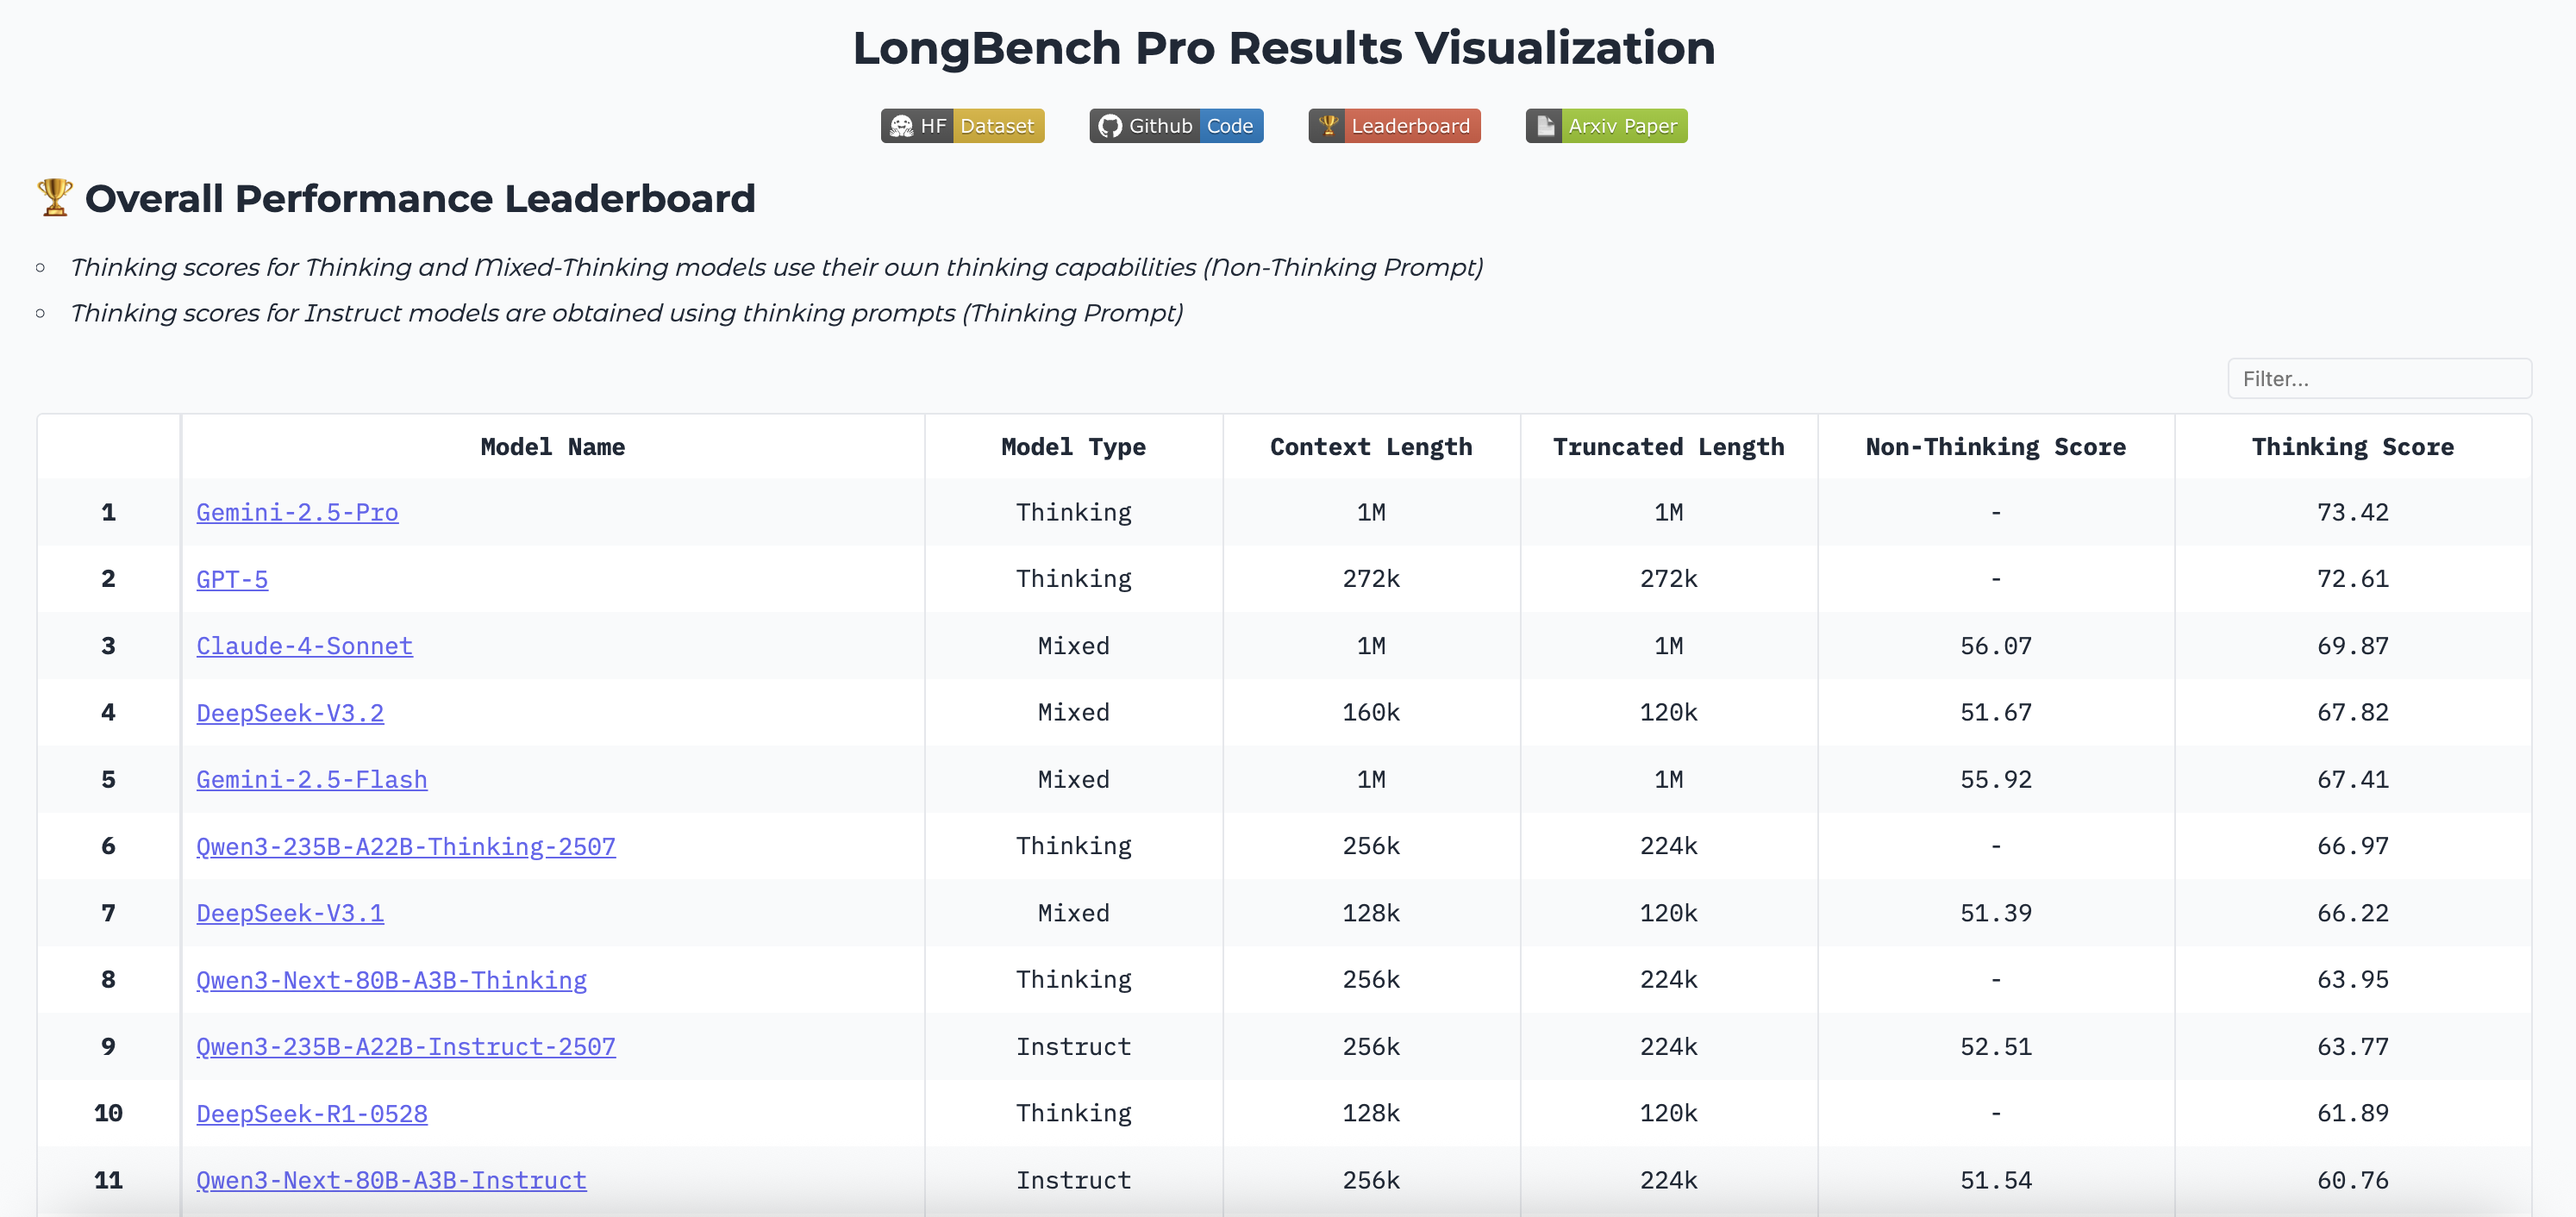
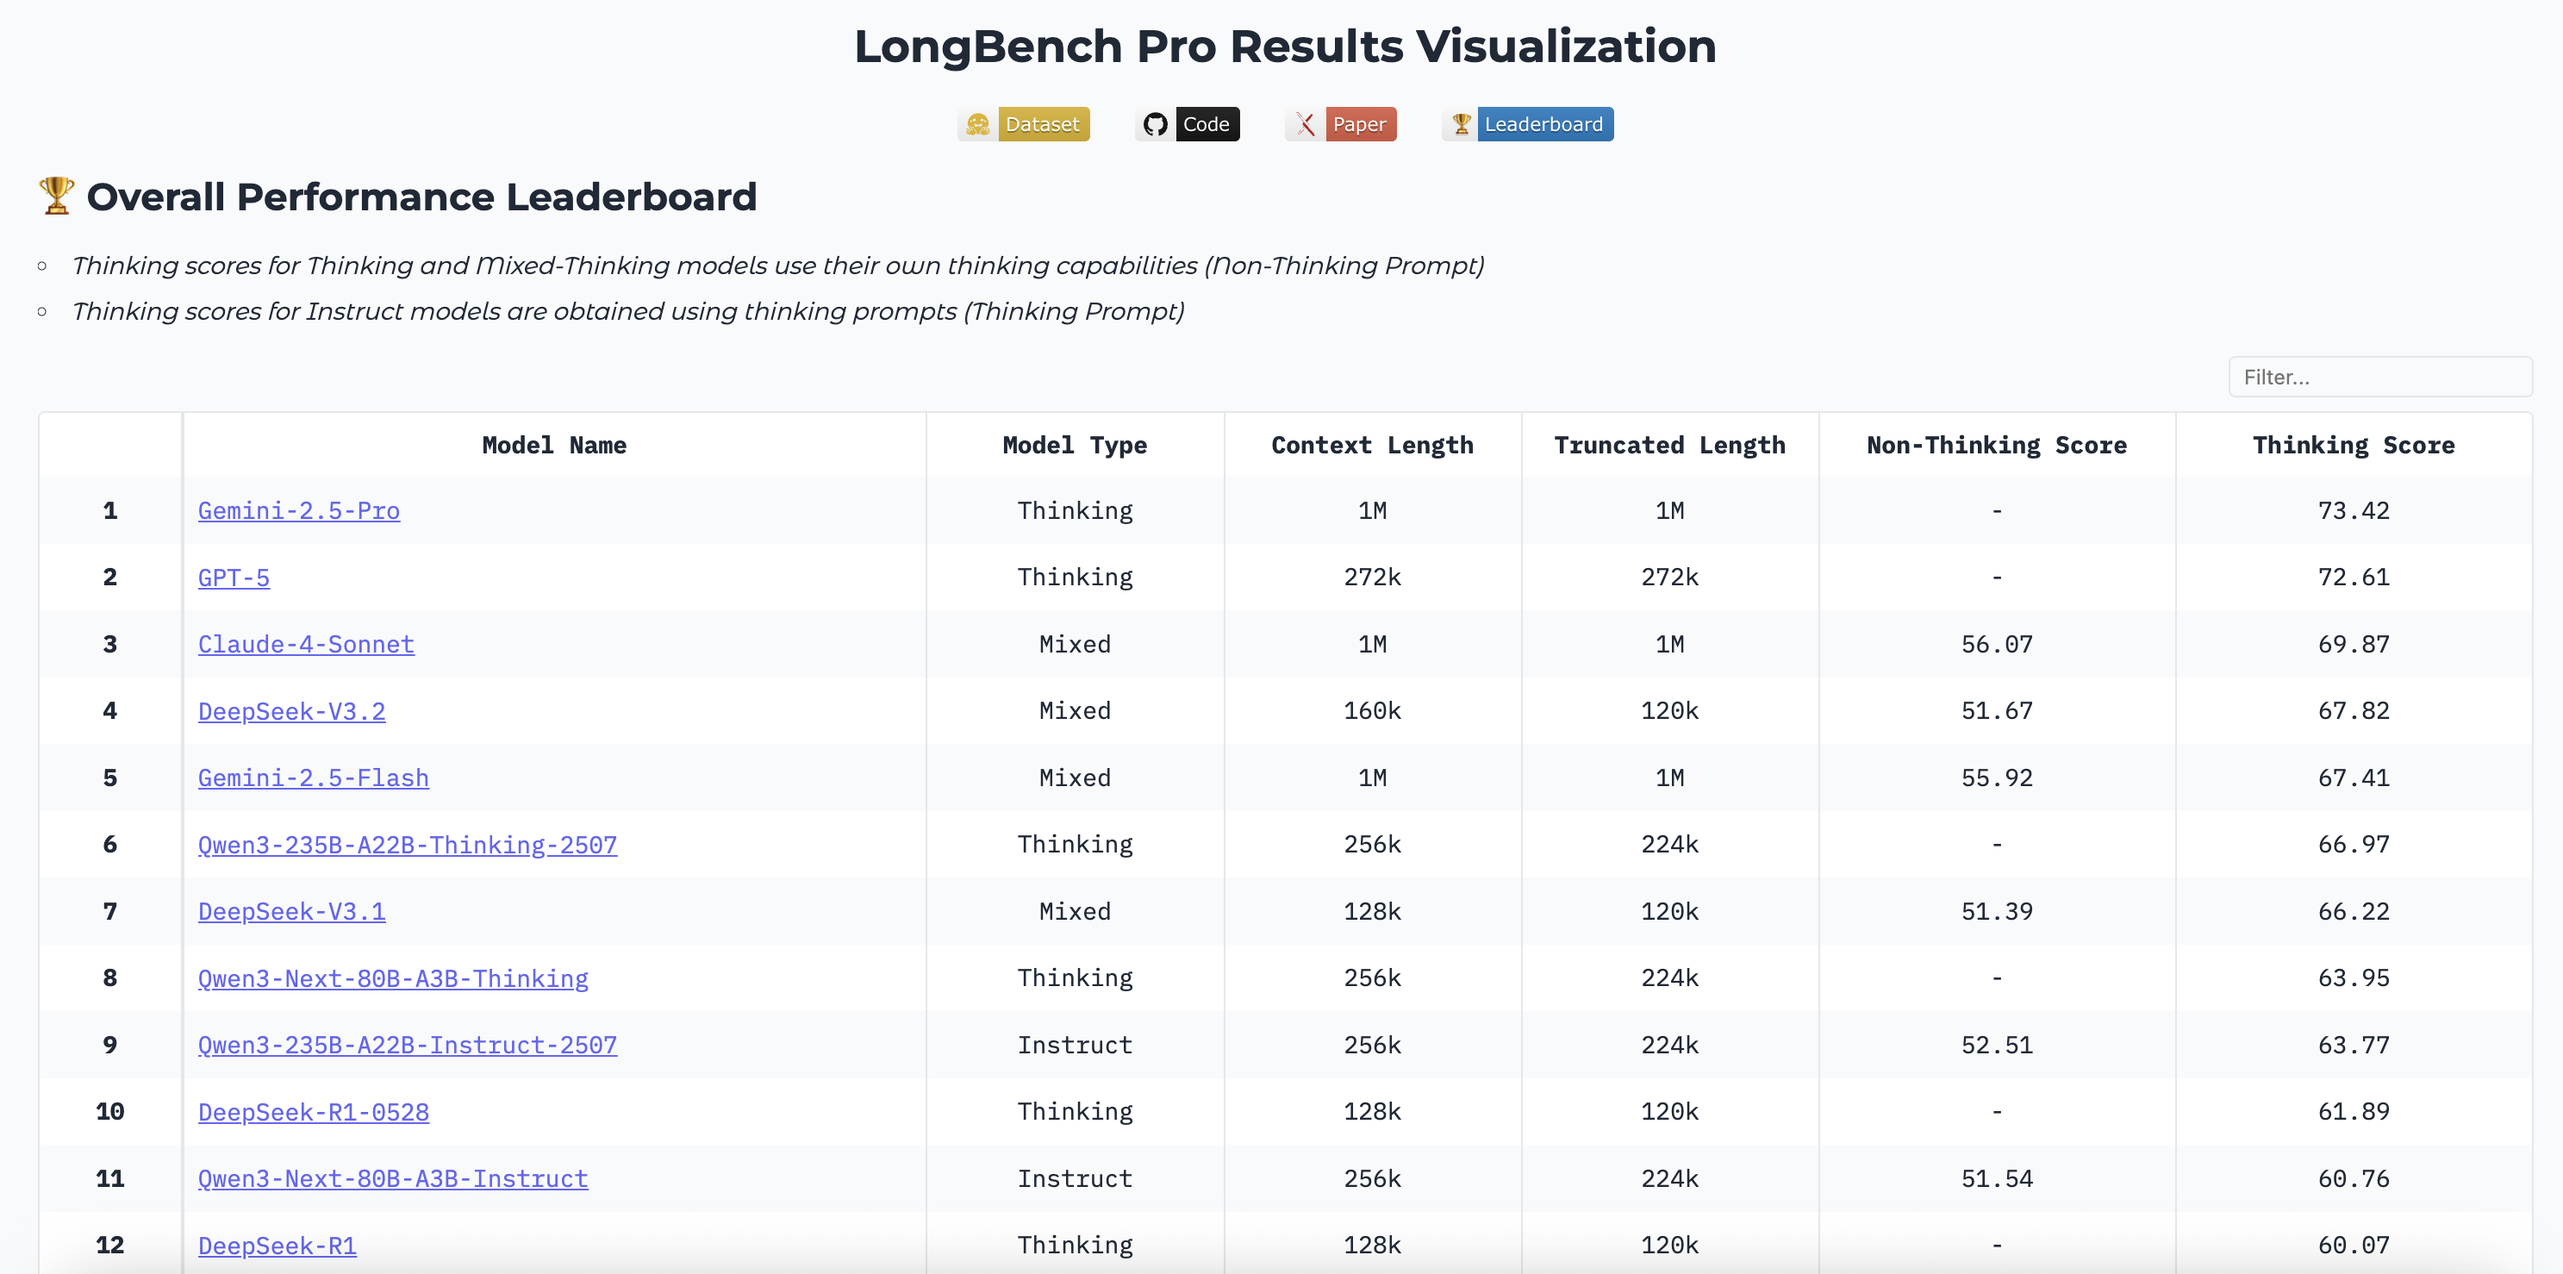
update app.py

diff --git a/LongBench-Pro/app.py b/LongBench-Pro/app.py
@@ -789,10 +789,10 @@ def create_gradio_interface(parser: ResultParser):
 
         gr.HTML("""
         <div style="text-align: center; display: flex; justify-content: center; gap: 10px; margin-bottom: 20px;">
-            <a href="https://huggingface.co/datasets/caskcsg/LongBench-Pro" target="_blank"><img src="https://img.shields.io/badge/HF-Dataset-yellow?logo=huggingface&logoColor=white" alt="HF Dataset"></a>
-            <a href="https://github.com/caskcsg/longcontext/tree/main/LongBench-Pro" target="_blank"><img src="https://img.shields.io/badge/Github-Code-blue?logo=github&logoColor=white" alt="Github Code"></a>
-            <a href="https://huggingface.co/spaces/caskcsg/LongBench-Pro-Leaderboard" target="_blank"><img src="https://img.shields.io/badge/🏆-Leaderboard-red" alt="Leaderboard"></a>
-            <a href="#" target="_blank"><img src="https://img.shields.io/badge/📄-Arxiv_Paper-green" alt="Paper"></a>
+            <a href="https://huggingface.co/datasets/caskcsg/LongBench-Pro" target="_blank"><img src="https://img.shields.io/badge/Dataset-yellow?logo=huggingface&logoColor=yellow&labelColor=white" alt="Dataset"></a>
+            <a href="https://github.com/caskcsg/longcontext/tree/main/LongBench-Pro" target="_blank"><img src="https://img.shields.io/badge/Code-181717?logo=github&logoColor=181717&labelColor=white" alt="Code"></a>
+            <a href="#" target="_blank"><img src="https://img.shields.io/badge/Paper-red?logo=arxiv&logoColor=B31B1B&labelColor=white" alt="Paper"></a>
+            <a href="https://huggingface.co/spaces/caskcsg/LongBench-Pro-Leaderboard" target="_blank"><img src="https://img.shields.io/badge/🏆-Leaderboard-blue?labelColor=white" alt="Leaderboard"></a>
         </div>
         """)
         
